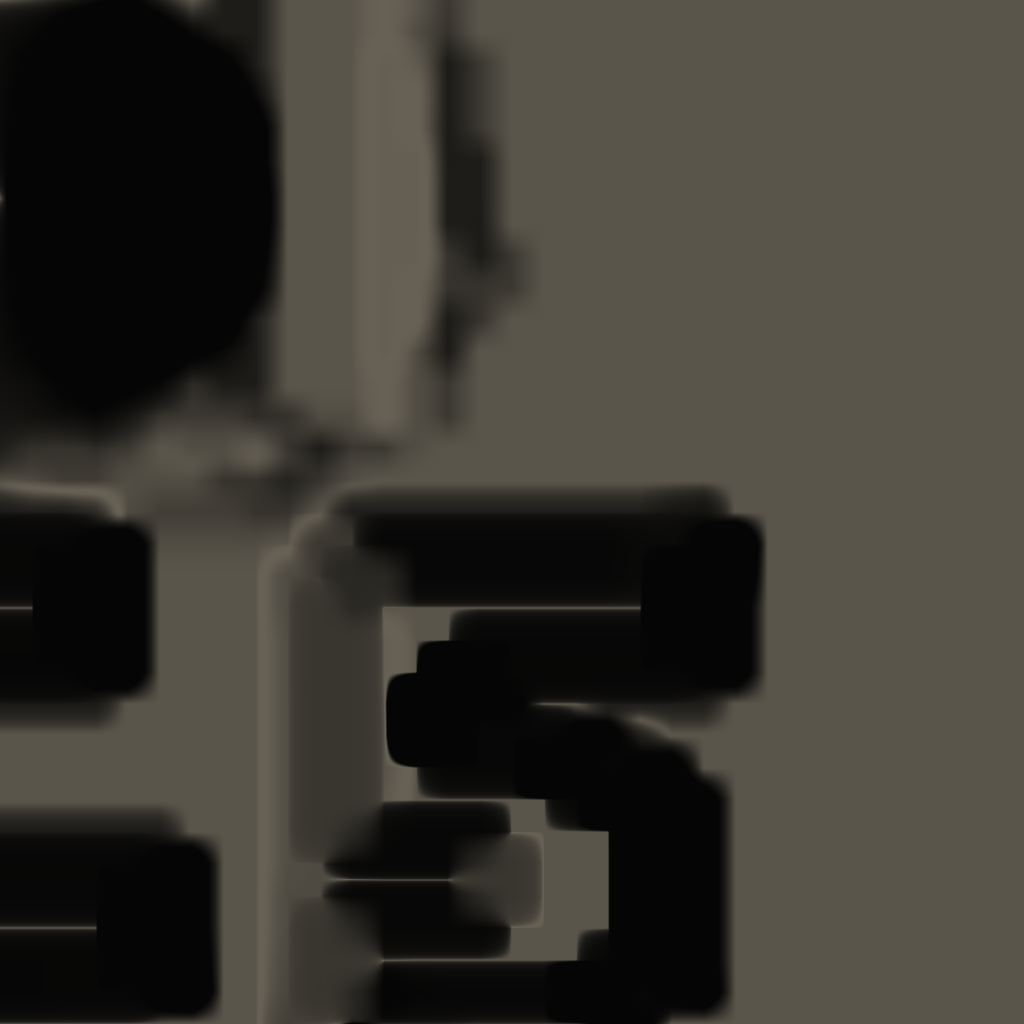
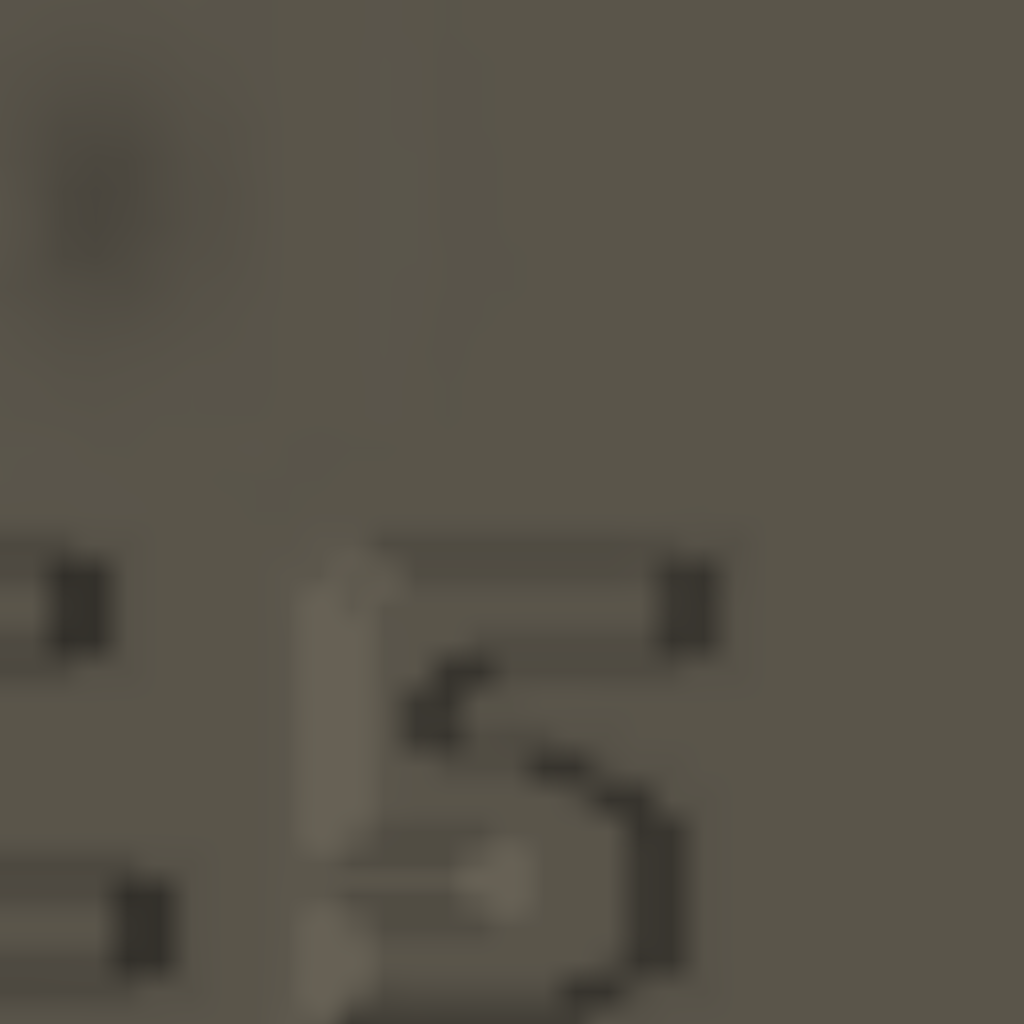
Merged revisions 30442,30454-30457 via svnmerge from https://crystal.svn.sourceforge.net/svnroot/crystal/CS/trunk
........
  r30442 | res2002 | 2008-07-18 18:23:10 +0200 (Fri, 18 Jul 2008) | 1 line
  
  Add self-locking to Lightmap::IsOneColor()
........
  r30454 | res2002 | 2008-07-19 02:18:02 +0200 (Sat, 19 Jul 2008) | 1 line
  
  Un-inlined scfString constructors to avoid cross-module memory allocs+frees
........
  r30455 | res2002 | 2008-07-19 02:19:40 +0200 (Sat, 19 Jul 2008) | 1 line
  
  Fix crash in terrain2 saver when the default cell has no base material
........
  r30456 | res2002 | 2008-07-19 02:35:11 +0200 (Sat, 19 Jul 2008) | 1 line
  
  Fixed terrain2 normal computation
........
  r30457 | res2002 | 2008-07-19 02:39:52 +0200 (Sat, 19 Jul 2008) | 1 line
  
  Relit terraini once more
........

diff --git a/V1.4/plugins/mesh/terrain/persist/terrain2/saver.cpp b/V1.4/plugins/mesh/terrain/persist/terrain2/saver.cpp
@@ -278,11 +278,15 @@ CS_PLUGIN_NAMESPACE_BEGIN(Terrain2Loader)
 	}
 
 	{
-	  csRef<iDocumentNode> node = 
-	    defaultNode->CreateNodeBefore(CS_NODE_ELEMENT, 0);
-	  node->SetValue ("basematerial");
-	  node->CreateNodeBefore (CS_NODE_TEXT, 0)
-	    ->SetValue (defaultCell->GetBaseMaterial()->QueryObject()->GetName());
+	  iMaterialWrapper* basemat = defaultCell->GetBaseMaterial();
+	  if (basemat)
+	  {
+	    csRef<iDocumentNode> node = 
+	      defaultNode->CreateNodeBefore(CS_NODE_ELEMENT, 0);
+	    node->SetValue ("basematerial");
+	    node->CreateNodeBefore (CS_NODE_TEXT, 0)
+	     ->SetValue (basemat->QueryObject()->GetName());
+	  }
 	}
 
 	synldr->WriteBool (defaultNode, "materialmappersistent",
@@ -381,13 +385,14 @@ CS_PLUGIN_NAMESPACE_BEGIN(Terrain2Loader)
 	  synldr->WriteVector (node, cell->GetSize());
 	}
 
-	if (defaultCell->GetBaseMaterial() != cell->GetBaseMaterial())
+	if ((cell->GetBaseMaterial() != 0)
+	    && (defaultCell->GetBaseMaterial() != cell->GetBaseMaterial()))
 	{
 	  csRef<iDocumentNode> node = 
 	    cellNode->CreateNodeBefore(CS_NODE_ELEMENT, 0);
 	  node->SetValue ("basematerial");
 	  node->CreateNodeBefore (CS_NODE_TEXT, 0)
-	    ->SetValue (defaultCell->GetBaseMaterial()->QueryObject()->GetName());
+	    ->SetValue (cell->GetBaseMaterial()->QueryObject()->GetName());
 	}
 
 	synldr->WriteBool (cellNode, "materialmappersistent",

diff --git a/V1.4/include/csutil/scfstr.h b/V1.4/include/csutil/scfstr.h
@@ -39,28 +39,19 @@ class CS_CRYSTALSPACE_EXPORT scfString :
 public:
 
   /// Create an empty scfString object
-  scfString ()
-    : scfImplementationType (this)
-  { }
+  scfString ();
 
   /// Create an scfString object and reserve space for iLength characters
-  scfString (size_t iLength) 
-    : scfImplementationType (this), s(iLength)
-  { }
+  scfString (size_t iLength);
 
   /// Copy constructor
-  scfString (const iString &copy) 
-    : iBase(), scfImplementationType (this), s(copy.GetData())
-  { }
+  scfString (const iString &copy);
 
   /// Yet another copy constructor
-  scfString (const char *copy) 
-    : scfImplementationType (this), s(copy)
-  { }
+  scfString (const char *copy);
 
   /// Destroy a scfString object
-  virtual ~scfString ()
-  { }
+  virtual ~scfString ();
 
   /// Get the pointer to the internal csString.
   const csString& GetCsString () const { return s; }

diff --git a/V1.4/plugins/mesh/terrain/terrain2/cell.cpp b/V1.4/plugins/mesh/terrain/terrain2/cell.cpp
@@ -537,7 +537,7 @@ csVector3 csTerrainCell::GetNormalDN (int x, int y) const
 
   float dfdy = 0;
   if (y - 1 >= 0 && y + 1 < gridHeight)
-    dfdy = (GetHeight (x, y + 1) - GetHeight (x, y - 1)) / 2*step_z; 
+    dfdy = (GetHeight (x, y + 1) - GetHeight (x, y - 1)) / (2*step_z); 
   else if (y - 1 >= 0)
     dfdy = (center - GetHeight (x, y - 1)) / step_z;
   else if (y + 1 < gridHeight)
@@ -545,7 +545,7 @@ csVector3 csTerrainCell::GetNormalDN (int x, int y) const
 
   float dfdx = 0;
   if (x - 1 >= 0 && x + 1 < gridWidth)
-    dfdx = (GetHeight (x + 1, y) - GetHeight (x - 1, y)) / 2*step_x; 
+    dfdx = (GetHeight (x + 1, y) - GetHeight (x - 1, y)) / (2*step_x); 
   else if (x - 1 >= 0)
     dfdx = (center - GetHeight (x - 1, y)) / step_x;
   else if (x + 1 < gridWidth)

diff --git a/V1.4/libs/csutil/scfstr.cpp b/V1.4/libs/csutil/scfstr.cpp
@@ -21,6 +21,25 @@
 #include "csutil/ref.h"
 #include "csutil/scfstr.h"
 
+scfString::scfString ()
+  : scfImplementationType (this)
+{ }
+
+scfString::scfString (size_t iLength) 
+  : scfImplementationType (this), s(iLength)
+{ }
+
+scfString::scfString (const iString &copy) 
+  : iBase(), scfImplementationType (this), s(copy.GetData())
+{ }
+
+scfString::scfString (const char *copy) 
+  : scfImplementationType (this), s(copy)
+{ }
+
+scfString::~scfString ()
+{ }
+
 void scfString::SetCapacity (size_t NewSize)
 { s.SetCapacity (NewSize); }
 

diff --git a/V1.4/plugins/mesh/terrain/terrain2/bruteblockrenderer.cpp b/V1.4/plugins/mesh/terrain/terrain2/bruteblockrenderer.cpp
@@ -508,7 +508,7 @@ void TerrainBlock::SetupGeometry ()
         
         //@@Optimize this!
         *normalData++ = renderData->cell->GetNormal (
-          (int)(x*stepSize), (int)(y*stepSize)).Unit ();
+          (int)(x*stepSize), (int)(y*stepSize));
 
         if (height < minHeight)
           minHeight = height;

diff --git a/V1.4/apps/tools/lighter2/lightmap.cpp b/V1.4/apps/tools/lighter2/lightmap.cpp
@@ -222,6 +222,8 @@ namespace lighter
 
   bool Lightmap::IsOneColor (float threshold, csColor& color)
   {
+    ScopedSwapLock<Lightmap> l (*this);
+
     if ((width == 1) && (height == 1))
     {
       color = colorArray[0];
